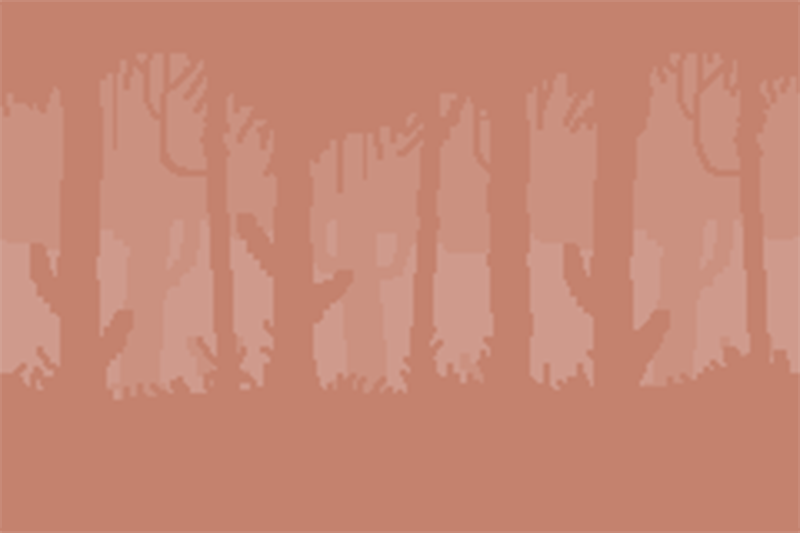
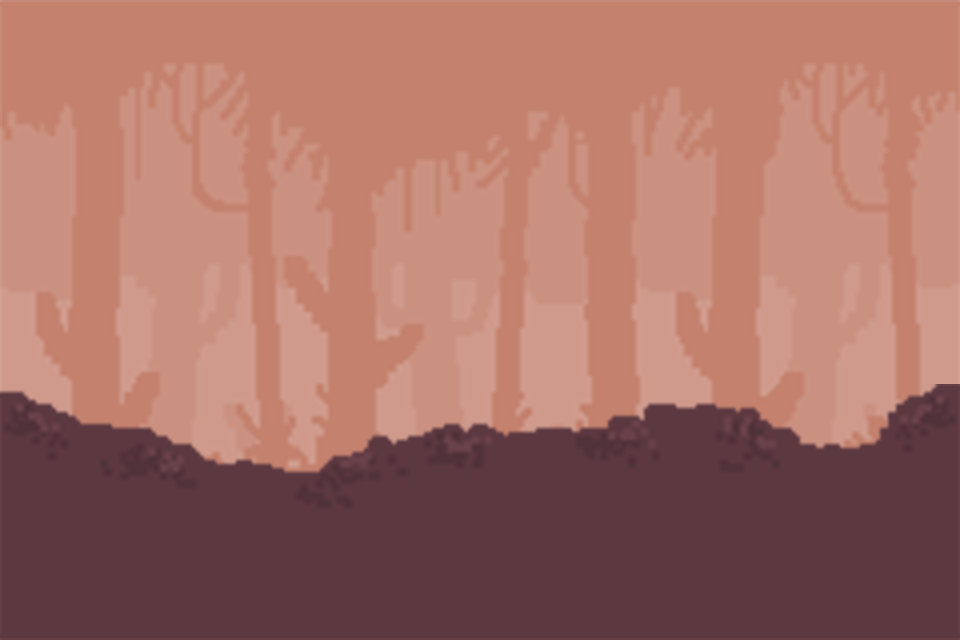
Fixed Background, Added Forground and Began Messing with Tiles.
Adjusted Texture Selector so everything's the right size.

TileMap.cpp (Texture Selector):

1) Changed

/*Initializers*/
void TILEMAP::TextureSelector::initVariables(
 std::string data_file_path,
 sf::Vector2f bounds_position,
 sf::Vector2f bounds_size,
 const sf::Texture* texture_sheet,
 sf::Font* font
)
{
 this->loadFromFile();

 /*Bounds*/
 this->bounds.setPosition(bounds_position.x + this->tileSize, bounds_position.y);
 this->bounds.setSize(bounds_size);
 this->bounds.setFillColor(sf::Color(0, 0, 0, 100));
 this->bounds.setOutlineThickness(1.f);
 this->bounds.setOutlineColor(sf::Color::White);

 /*Sprite Sheet*/
 this->textureSheet.setPosition(this->bounds.getPosition());
 this->textureSheet.setTexture(*texture_sheet);
 this->textureSheet.setTextureRect(
  sf::IntRect(
   this->tileSize * this->xScrollIncrementer,
   this->tileSize * this->yScrollIncrementer,
   static_cast<int>(bounds_size.x),
   static_cast<int>(bounds_size.y)
  )
 );

 /*Selector*/
 this->selector.setPosition(bounds_position.x * this->tileSize, bounds_position.y);
 this->selector.setSize(sf::Vector2f(static_cast<float>(this->tileSize), static_cast<float>(this->tileSize)));
 this->selector.setFillColor(sf::Color::Transparent);
 this->selector.setOutlineThickness(1.f);
 this->selector.setOutlineColor(sf::Color::Red);

 /*Texture Int Rect*/
 this->textureIntRect.width = this->tileSize;
 this->textureIntRect.height = this->tileSize;

 /*Hide Button*/
 float hideButtonOffsetX = 16.f;
[…]

diff --git a/Side Scroller Game Engine/Editor.cpp b/Side Scroller Game Engine/Editor.cpp
@@ -20,22 +20,55 @@ void Editor::initVariables()
 }
 void Editor::initBackground()
 {
-	this->background.setSize(
+	this->environmentDetails.background.setSize(
 		sf::Vector2f(
 			static_cast<float>(this->gameDetails->window->getSize().x * 6),
 			static_cast<float>(this->gameDetails->window->getSize().y)
 		)
 	);
 
-	if (!this->backgroundTexture.loadFromFile("Resources/Images/Background/Level_1/background.png"))
+	if (!this->environmentDetails.backgroundTexture.loadFromFile("Resources/Images/Background/Level_1/background.png"))
 		throw ("ERROR::EDITOR::FAILED_TO_LOAD::background.png");
 
-	this->backgroundTexture.setRepeated(true);
-	this->backgroundTexture.setSmooth(true);
+	this->environmentDetails.backgroundTexture.setRepeated(true);
+	this->environmentDetails.backgroundTexture.setSmooth(true);
 
-	this->background.setTextureRect(sf::IntRect(0, 0, this->background.getSize().x, this->background.getSize().y));
+	this->environmentDetails.background.setTextureRect(
+		sf::IntRect(
+			0, 
+			0, 
+			this->environmentDetails.background.getSize().x,
+			this->environmentDetails.background.getSize().y
+		)
+	);
 
-	this->background.setTexture(&this->backgroundTexture);
+	this->environmentDetails.background.setTexture(&this->environmentDetails.backgroundTexture);
+}
+void Editor::initForeground()
+{
+	this->environmentDetails.foreground.setSize(
+		sf::Vector2f(
+			static_cast<float>(this->gameDetails->window->getSize().x * 6),
+			static_cast<float>(this->gameDetails->window->getSize().y)
+		)
+	);
+
+	if (!this->environmentDetails.foregroundTexture.loadFromFile("Resources/Images/Foreground/foreground.png"))
+		throw ("ERROR::EDITOR::FAILED_TO_LOAD::background.png");
+
+	this->environmentDetails.foregroundTexture.setRepeated(true);
+	this->environmentDetails.foregroundTexture.setSmooth(true);
+
+	this->environmentDetails.foreground.setTextureRect(
+		sf::IntRect(
+			0,
+			0,
+			this->environmentDetails.foreground.getSize().x,
+			this->environmentDetails.foreground.getSize().y
+		)
+	);
+
+	this->environmentDetails.foreground.setTexture(&this->environmentDetails.foregroundTexture);
 }
 void Editor::initRenderTexture()
 {
@@ -83,20 +116,20 @@ void Editor::initTileMap()
 	this->tileMap = std::make_unique<TILEMAP::TileMap>(
 		this->tileSize,
 		mapSize,
-		"Resources/Images/Texture_Sheets/PipoyaMasterLevel.png"
+		"Resources/Images/Tile_Set/tileset.png"
 		);
 }
 void Editor::initTextureSelector()
 {
 	this->textureSelector = std::make_unique<TILEMAP::TextureSelector>(
-		"Config/texture_selector_data.ini",
-		this->tileSize,
-		sf::Vector2f(0, 0),
-		sf::Vector2f(256.f, 512.f),
-		this->tileMap->getTexture(),
-		this->gameDetails->font,
-		this->inputTime,
-		this->maxInputTime
+		"Config/texture_selector_data.ini", //Texture Selector Data File
+		this->tileSize,                     //Tile Size
+		sf::Vector2f(0, 0),                 //Bounds Position
+		sf::Vector2f(768.f, 384.f),         //Bounds Size
+		this->tileMap->getTexture(),        //Texture
+		this->gameDetails->font,            //Font
+		this->inputTime,                    //Input Time
+		this->maxInputTime                  //Max Input Time
 		);
 
 	this->selectorRect.setSize(sf::Vector2f(static_cast<float>(this->tileSize), static_cast<float>(this->tileSize)));
@@ -129,6 +162,7 @@ Editor::Editor(GameDetails* game_details)
 {
 	this->initVariables();
 	this->initBackground();
+	this->initForeground();
 	this->initRenderTexture();
 	this->initKeyBinds();
 	this->initText();
@@ -206,13 +240,13 @@ void Editor::updateCursorText()
 
 		std::stringstream ss; 
 
-		ss << "mouse position window: " << this->mousePositionWindow.x << " x " << this->mousePositionWindow.y << '\n'
-			<< "mouse position view: " << this->mousePositionView.x << " x " << this->mousePositionView.y << '\n'
-			<< " mouse position tile: " << this->mousePositionTile.x << " x " << this->mousePositionTile.y << '\n'
-			<< "tile map int rect: " << this->tileMap->getTextureIntRect().left << " x " << this->tileMap->getTextureIntRect().top << '\n'
-			<< "tile rotation: " << this->tileRotation << '\n'
-			<< "door name: " << this->doorName << '\n'
-			<< "tile type: " << this->tileType << '\n'
+		ss << "mouse position window: " << this->mousePositionWindow.x << " x " << this->mousePositionWindow.y << "\n\n"
+			<< "mouse position view: " << this->mousePositionView.x << " x " << this->mousePositionView.y << "\n\n"
+			<< " mouse position tile: " << this->mousePositionTile.x << " x " << this->mousePositionTile.y << "\n\n"
+			<< "tile map int rect: " << this->tileMap->getTextureIntRect().left << " x " << this->tileMap->getTextureIntRect().top << "\n\n"
+			<< "tile rotation: " << this->tileRotation << "\n\n"
+			<< "door name: " << this->doorName << "\n\n"
+			<< "tile type: " << this->tileType << "\n\n"
 			<< "tile layer: " << this->tileLayer;
 
 		this->cursorText.setString(ss.str());
@@ -239,7 +273,7 @@ void Editor::updateTextureSelector(const float& dt)
 void Editor::updateTileMap()
 {
 	/*Add Tile*/
-	if (sf::Mouse::isButtonPressed(sf::Mouse::Left))
+	if (sf::Mouse::isButtonPressed(sf::Mouse::Left) && this->getInputTime())
 	{
 		if (!this->textureSelector->getActive() && !this->sideBar.getGlobalBounds().contains(static_cast<sf::Vector2f>(this->mousePositionWindow)))
 		{
@@ -383,7 +417,11 @@ void Editor::update(const float& dt)
 /*Render Functions*/
 void Editor::renderBackground(sf::RenderTarget& target)
 {
-	target.draw(this->background);
+	target.draw(this->environmentDetails.background);
+}
+void Editor::renderForeground(sf::RenderTarget& target)
+{
+	target.draw(this->environmentDetails.foreground);
 }
 void Editor::renderSideBar(sf::RenderTarget& target)
 {
@@ -415,6 +453,7 @@ void Editor::render(sf::RenderTarget* target)
 	this->renderTexture.setView(this->view);
 	this->renderBackground(this->renderTexture);
 	this->renderTileMap(this->renderTexture);
+	this->renderForeground(this->renderTexture);
 	this->renderSelectorRect(this->renderTexture);
 	this->renderTexture.display();
 	this->renderSprite.setTexture(this->renderTexture.getTexture());

diff --git a/Side Scroller Game Engine/TileMap.cpp b/Side Scroller Game Engine/TileMap.cpp
@@ -411,15 +411,15 @@ void TILEMAP::TextureSelector::initVariables(
 	this->textureIntRect.height = this->tileSize;
 
 	/*Hide Button*/
-	float hideButtonOffsetX = 16.f;
-	float hideButtonOffsetY = 17.f;
+	float hideButtonOffsetX = this->tileSize / 2.f;
+	float hideButtonOffsetY = this->tileSize / 2.f;
 	this->hideButton = std::make_unique<GUI::Button>(
 		sf::Vector2f(bounds_position.x + hideButtonOffsetX, bounds_position.y + hideButtonOffsetY), //Button Position
-		sf::Vector2f(this->tileSize, this->tileSize),                                             //Button Size
-		font,                                                                                     //Text Font
-		"ts",                                                                                     //String
-		20,                                                                                       //Character Size
-		sf::Color::White, sf::Color::White, sf::Color::White                                      //Text Color (Idle, Hover, Click)
+		sf::Vector2f(this->tileSize, this->tileSize),                                               //Button Size
+		font,                                                                                       //Text Font
+		"ts",                                                                                       //String
+		20,                                                                                         //Character Size
+		sf::Color::White, sf::Color::White, sf::Color::White                                        //Text Color (Idle, Hover, Click)
 		);
 }
 

diff --git a/Side Scroller Game Engine/Editor.h b/Side Scroller Game Engine/Editor.h
@@ -32,6 +32,7 @@ private:
     /*Initializers*/
     void initVariables();
     void initBackground();
+    void initForeground();
     void initRenderTexture();
     void initKeyBinds();
     void initText();
@@ -60,6 +61,7 @@ public:
 
     /*Render Functions*/
     void renderBackground(sf::RenderTarget& target);
+    void renderForeground(sf::RenderTarget& target);
     void renderSideBar(sf::RenderTarget& target);
     void renderTextureSelector(sf::RenderTarget& target);
     void renderSelectorRect(sf::RenderTarget& target);

diff --git a/Side Scroller Game Engine/State.h b/Side Scroller Game Engine/State.h
@@ -33,6 +33,18 @@ struct GameDetails
 	sf::Font* font;
 };
 
+struct EnvironmentDetails
+{
+	/*Background Variables*/
+	sf::RectangleShape background;
+	sf::Texture backgroundTexture;
+
+	/*Foreground Variables*/
+	sf::RectangleShape foreground;
+	sf::Texture foregroundTexture;
+
+};
+
 class State
 {
 private:
@@ -42,6 +54,9 @@ private:
 protected:
 	/*Game Detials*/
 	GameDetails* gameDetails;
+
+	/*Environoment Details*/
+	EnvironmentDetails environmentDetails;
 
 	/*Tile Map*/
 	std::unique_ptr<TILEMAP::TileMap> tileMap;

diff --git a/Side Scroller Game Engine/State.cpp b/Side Scroller Game Engine/State.cpp
@@ -5,7 +5,7 @@
 void State::initVariables(GameDetails* game_details)
 {
 	this->gameDetails = game_details;
-	this->tileSize = 32;
+	this->tileSize = 64;
 	this->endState = false;
 	this->inputTime = 0.f;
 	this->maxInputTime = 100.f;
